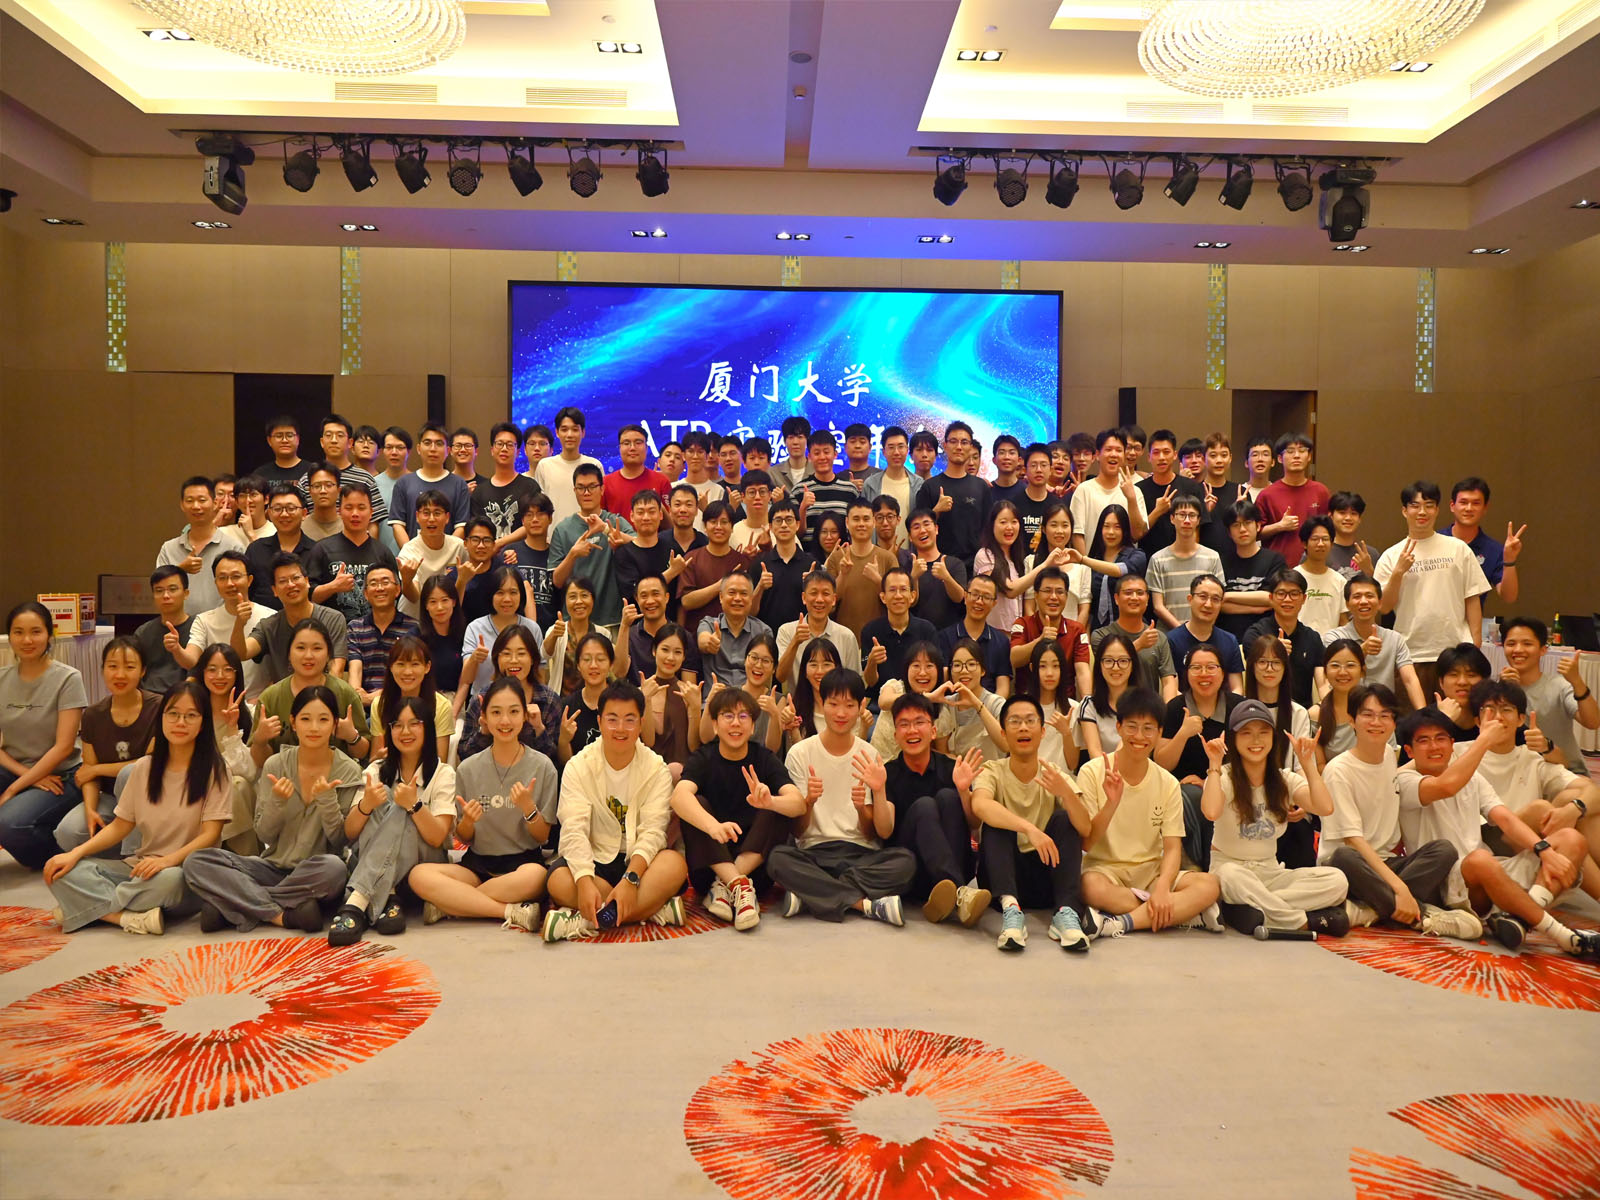
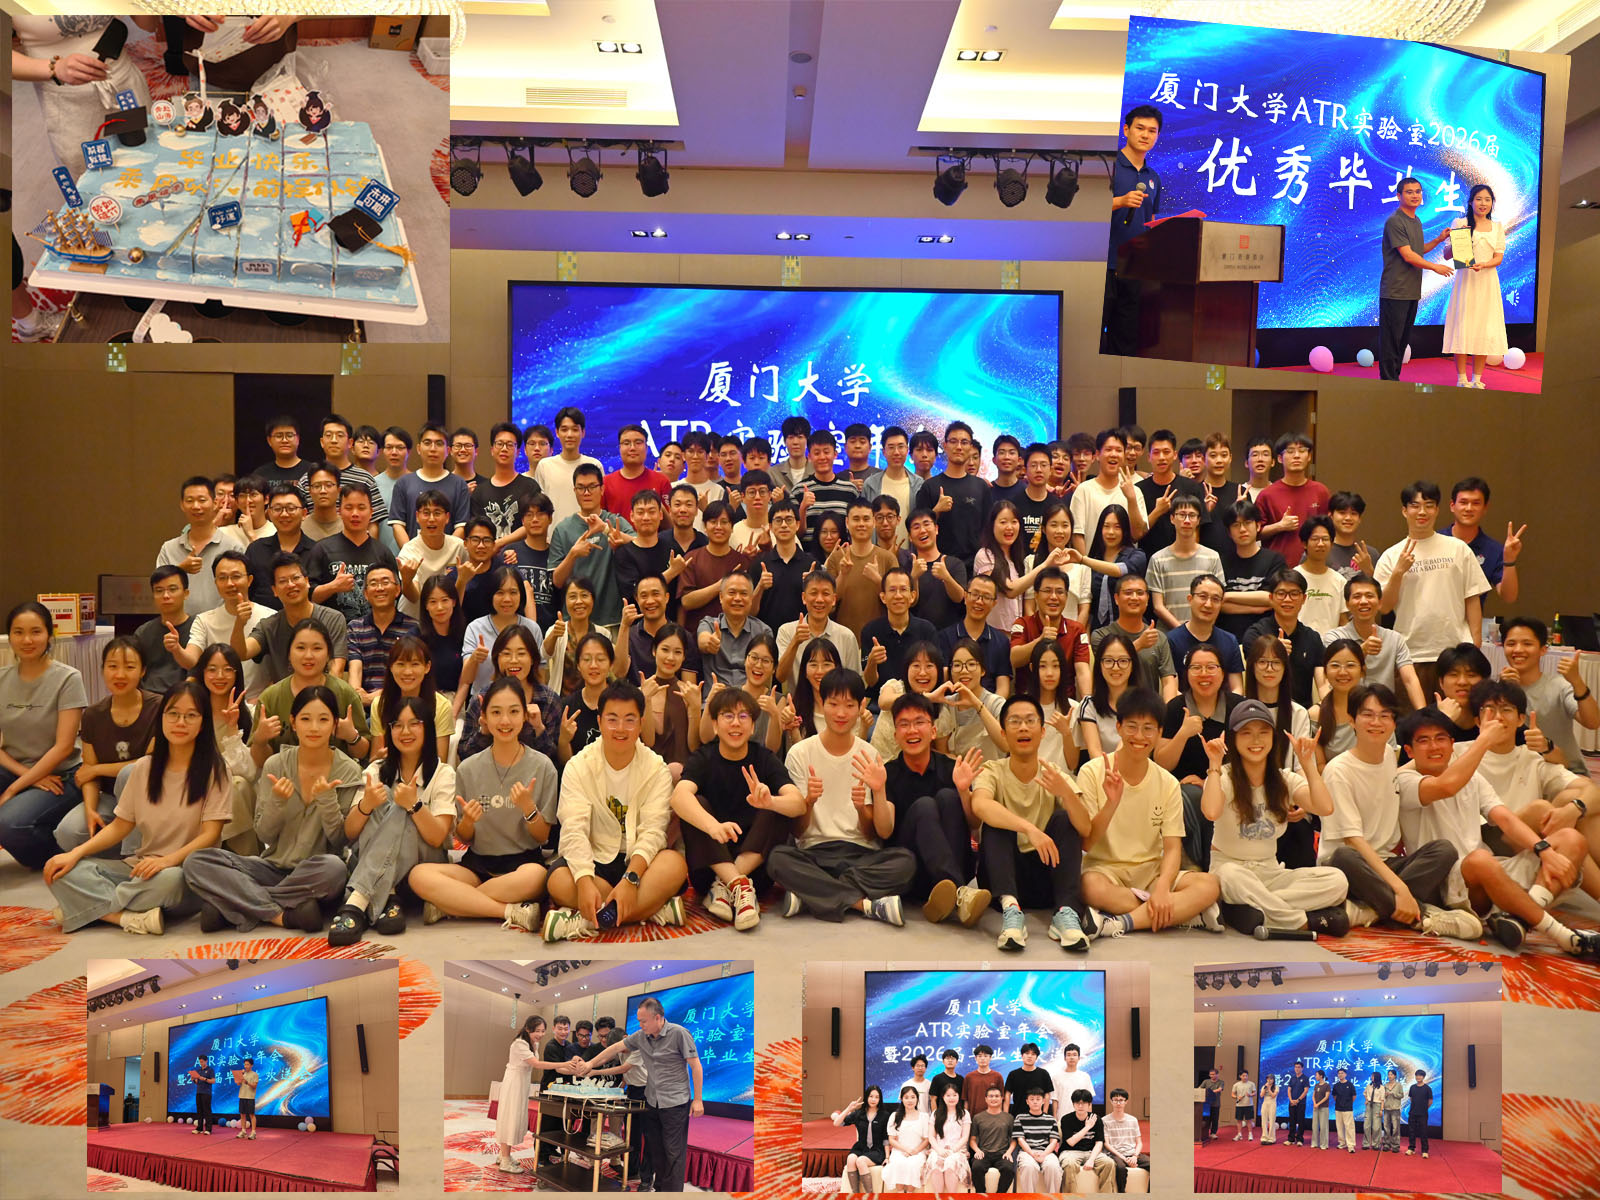
Update

diff --git a/lab.html b/lab.html
@@ -151,6 +151,7 @@
      <li>Recent activities</li> 
     </ul>
     <div id="activities" class="typeDiv">
+        <div class="activityItem overlayDiv"><img class="activityPhoto" src="img/activity/2026_06_12_Graduated23.jpg"><div class="imgOverlay">2026.06.12 第三届硕士生毕业啦</div></div>
         <div class="activityItem overlayDiv"><img class="activityPhoto" src="img/activity/2026_06_06_Group.jpg"><div class="imgOverlay">2026.06.06 毕业生欢送会</div></div>
         <div class="activityItem overlayDiv"><img class="activityPhoto" src="img/activity/2026_06_06_ATR_Lab.jpg"><div class="imgOverlay">2026.06.06 ATR实验室年会</div></div>
         <div class="activityItem overlayDiv"><img class="activityPhoto" src="img/activity/2026_05_25_ICC2026.jpg"><div class="imgOverlay">2026.05.25 ICC 2026 格拉斯哥</div></div>
@@ -159,7 +160,6 @@
         <div class="activityItem overlayDiv"><img class="activityPhoto" src="img/activity/2025_10_20_VTCfall2025.jpg"><div class="imgOverlay">2025.10.20 VTC2025-Fall 成都</div></div>
         <div class="activityItem overlayDiv"><img class="activityPhoto" src="img/activity/2025_06_13_Graduated22.jpg"><div class="imgOverlay">2025.06.13 第二届硕士生毕业啦</div></div>
         <div class="activityItem overlayDiv"><img class="activityPhoto" src="img/activity/2025_06_08_Supper.jpg"><div class="imgOverlay">2025.06.08 夜宵</div></div>
-        <div class="activityItem overlayDiv"><img class="activityPhoto" src="img/activity/2025_06_07_ATR_Lab.jpg"><div class="imgOverlay">2025.06.07 ATR实验室年会</div></div>
     </div>
     <ul> 
      <li>See more<a href="activity.html" target="_blank" title="View website"> Activities</a></li> 

diff --git a/activity.html b/activity.html
@@ -86,6 +86,7 @@
     </header> -->
     <h2>Activities</h2>
     <div id="activities" class="typeDiv">
+        <div class="activityItem overlayDiv"><img class="activityPhoto" src="img/activity/2026_06_12_Graduated23.jpg"><div class="imgOverlay">2026.06.12 第三届硕士生毕业啦</div></div>
         <div class="activityItem overlayDiv"><img class="activityPhoto" src="img/activity/2026_06_06_Group.jpg"><div class="imgOverlay">2026.06.06 毕业生欢送会</div></div>
         <div class="activityItem overlayDiv"><img class="activityPhoto" src="img/activity/2026_06_06_ATR_Lab.jpg"><div class="imgOverlay">2026.06.06 ATR实验室年会</div></div>
         <div class="activityItem overlayDiv"><img class="activityPhoto" src="img/activity/2026_05_25_ICC2026.jpg"><div class="imgOverlay">2026.05.25 ICC 2026 格拉斯哥</div></div>
